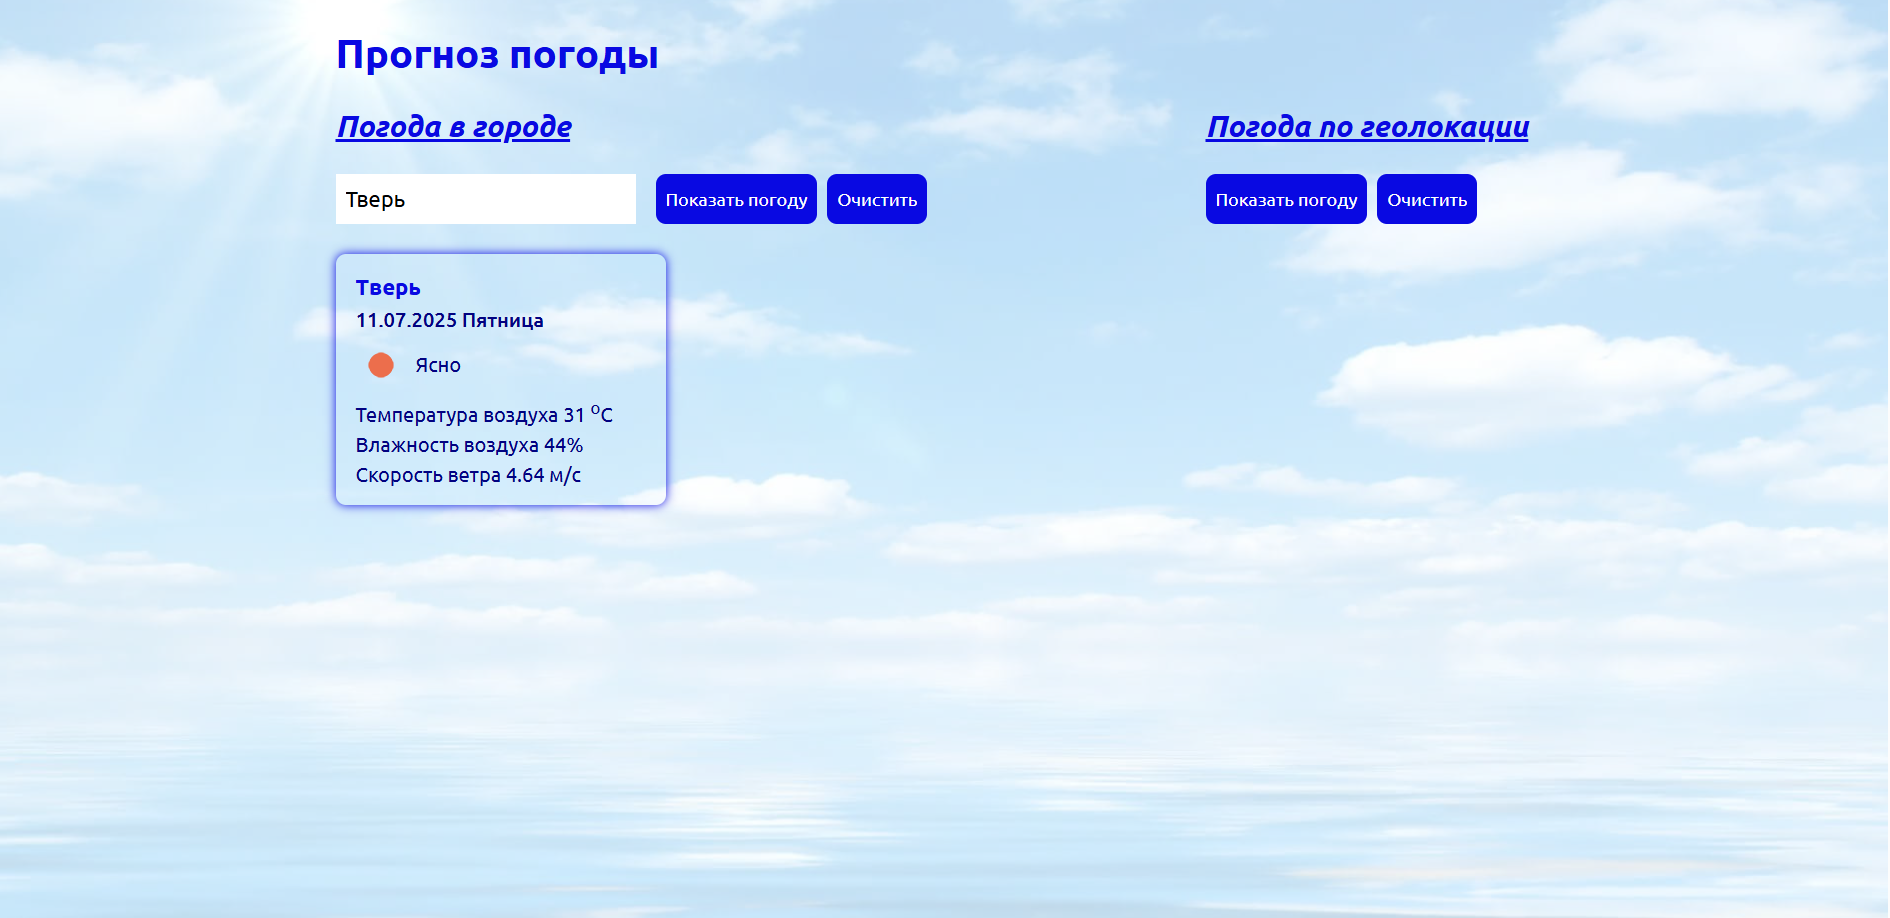
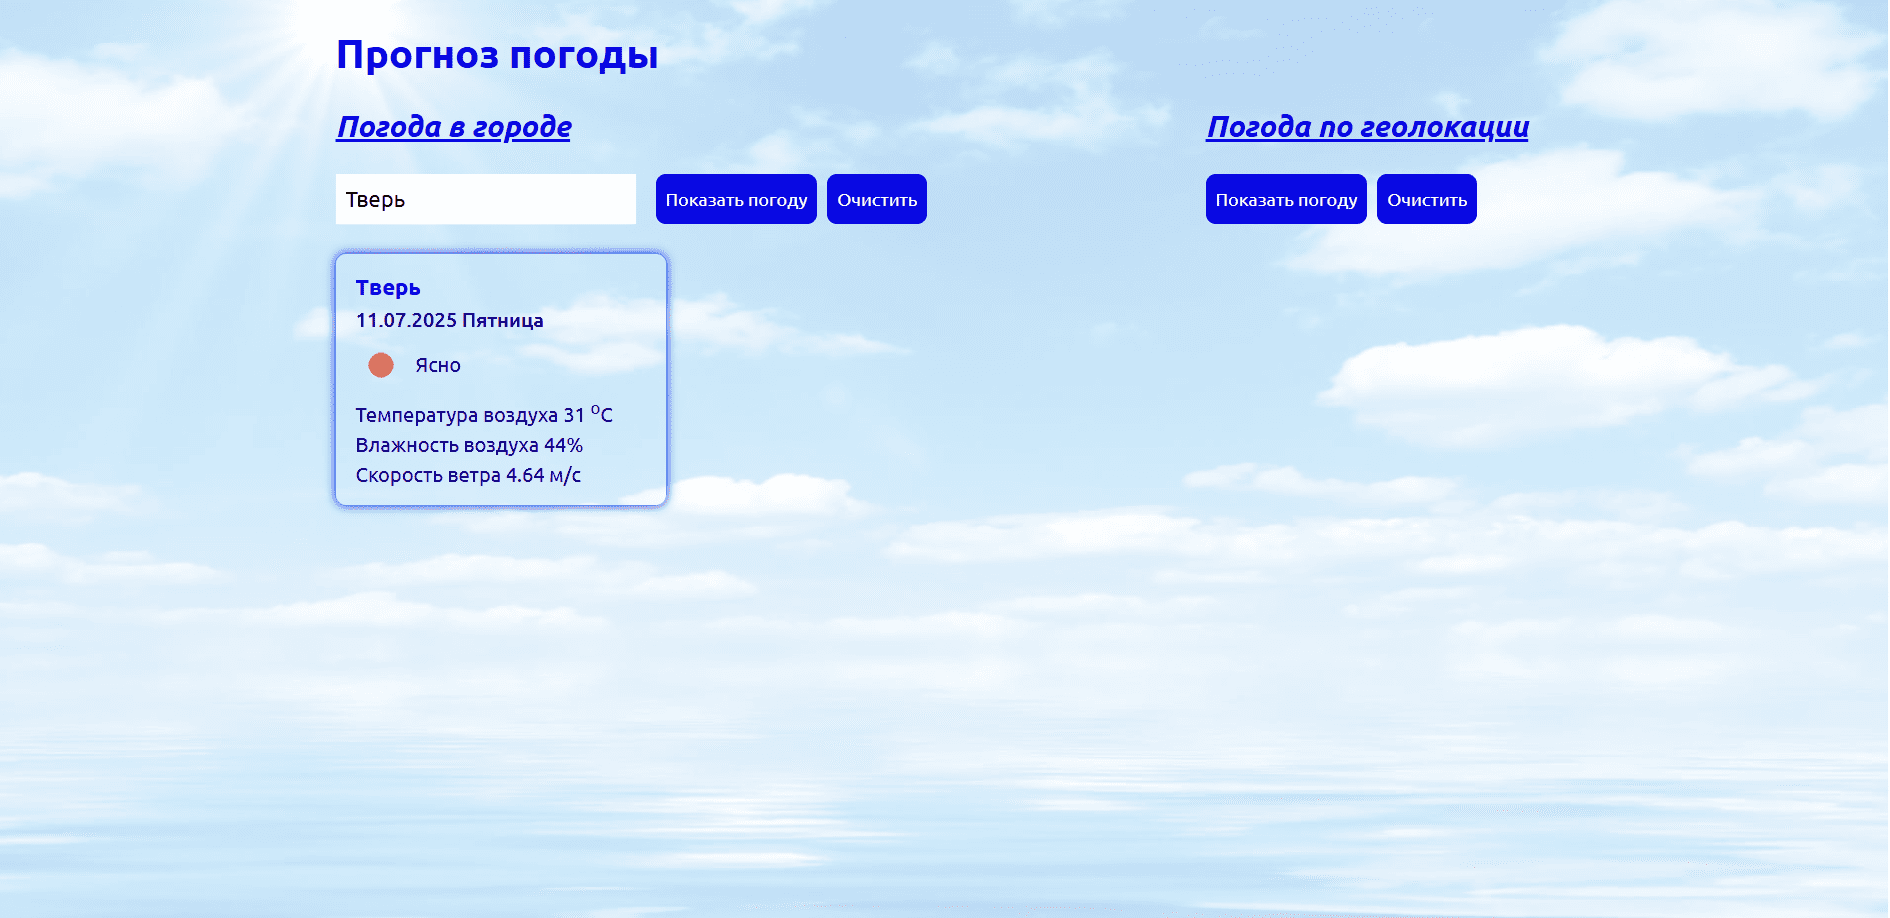
испр картинки

diff --git a/scss/style.scss b/scss/style.scss
@@ -41,7 +41,7 @@ body {
 
 .header {
   padding: 0 1.5rem;
-  background: url("../img/hero.jpg") 0 bottom / cover no-repeat;
+  background: url("../img/hero1.jpg") 0 bottom / cover no-repeat;
 }
 
 .hero {
